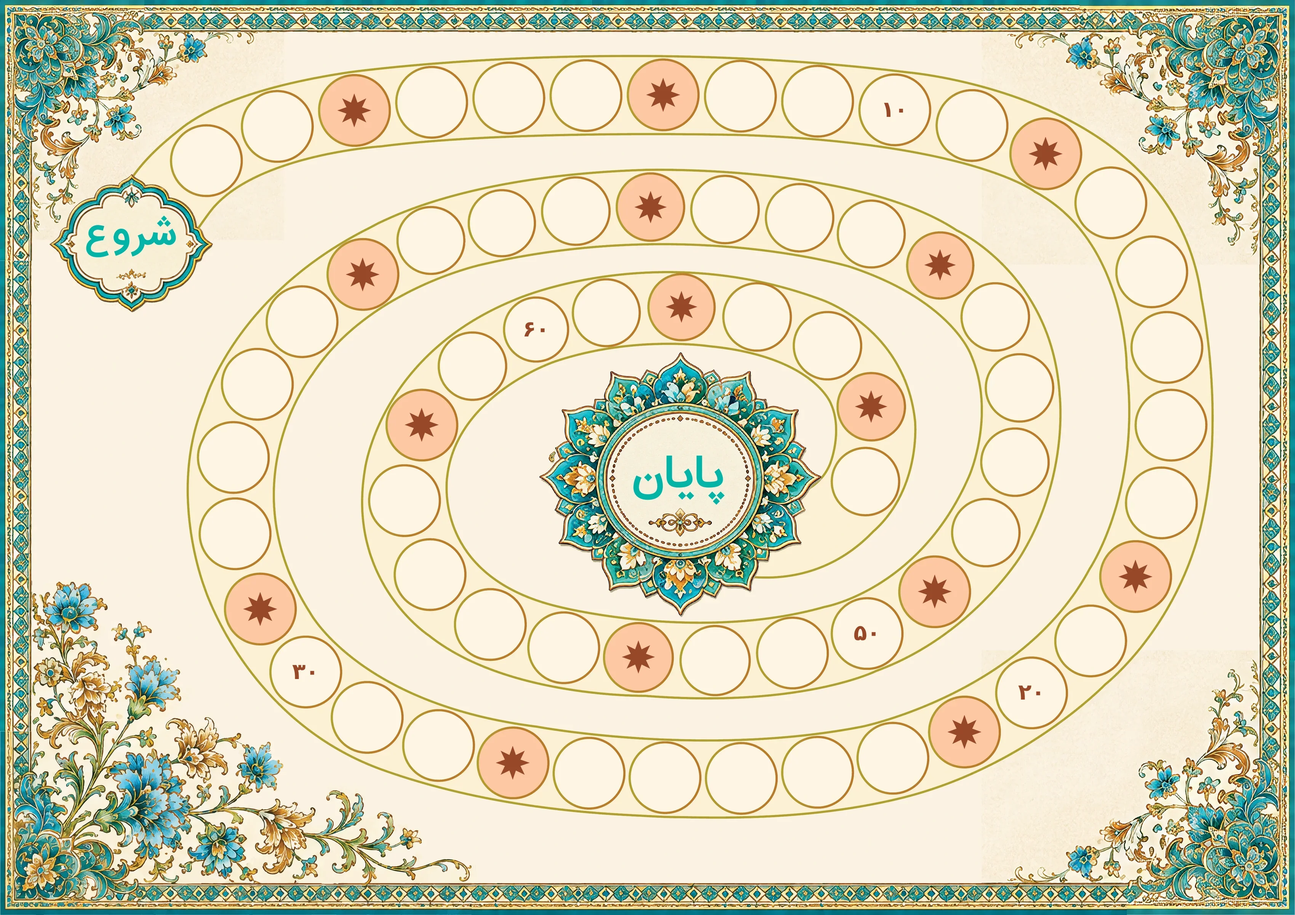
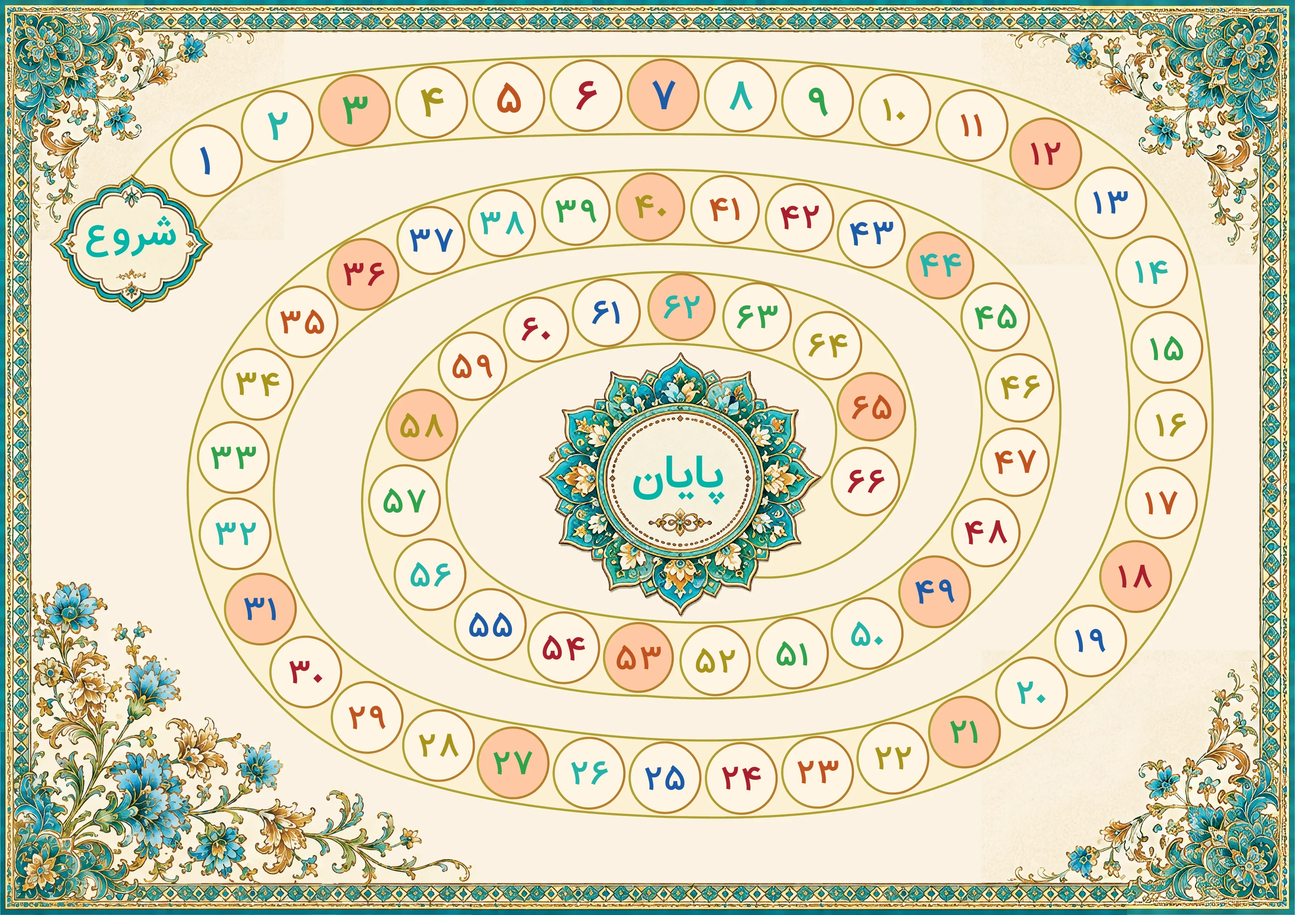
Map: number the cells 1-66 in IRANSans Bold
The cells are numbered by position again, using the font from the original
board and the same six-colour cycle; special cells stay salmon. The font
file is only used to draw the image and is not added to the repository.

Claude-Session: https://claude.ai/code/session_01Rjy4C5wyMsBPrp6gT8ag68

diff --git a/sw.js b/sw.js
@@ -1,5 +1,5 @@
 // نخ بده — offline support
-const CACHE = 'nakh-bede-v14';
+const CACHE = 'nakh-bede-v15';
 // The board image is large; it is fetched after install, in the background, so it
 // never competes with the first screen. (It is also cached the first time it is used.)
 const LAZY = ['./assets/map.webp'];
